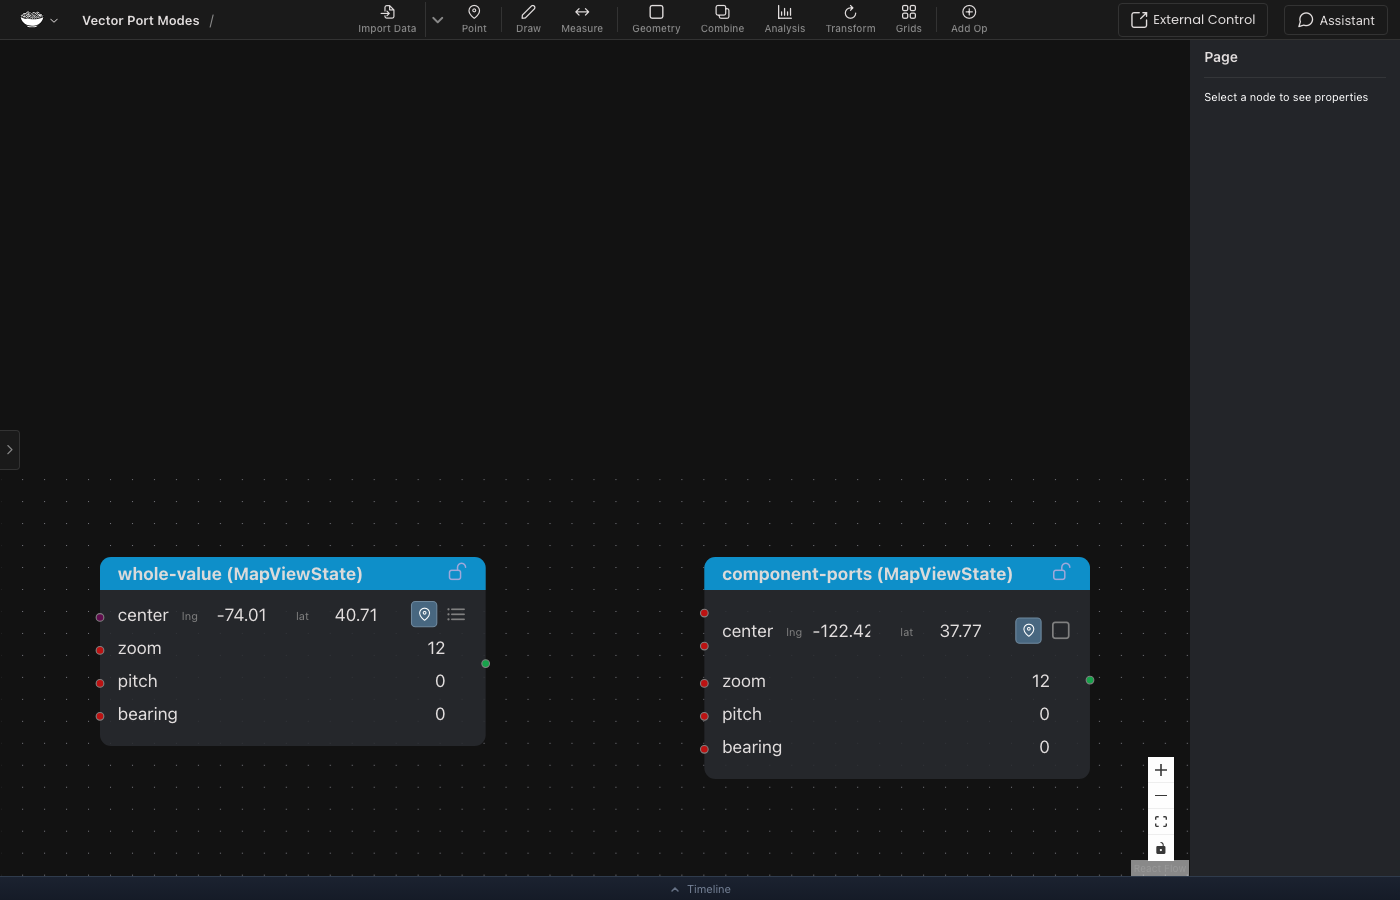
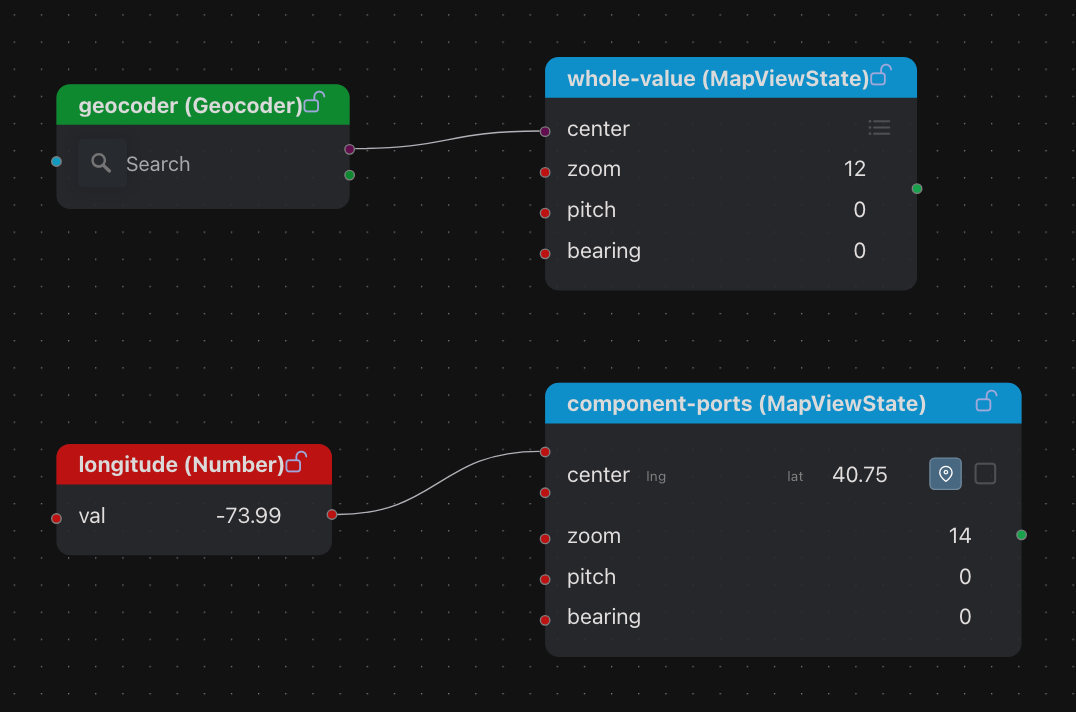
Crop vector port documentation image

diff --git a/docs/users/vector-input-ports.md b/docs/users/vector-input-ports.md
@@ -11,17 +11,15 @@ Use the layout button at the right of a vector field to switch between:
 - **Whole value** — one port for the complete point or vector. Use this to connect a Geocoder location, a GeoJSON Point, or another compatible vector directly.
 - **Components** — one port per numeric component, such as `lng` and `lat` or `x`, `y`, and `z`. Use this when coordinates come from different nodes.
 
-Both layouts represent the same input. They are never active at the same time, so there is no connection-priority rule to remember.
+Both layouts represent the same input. They are never active at the same time, so there is no connection-priority rule to remember. The example below connects a Geocoder Point in whole-value mode and a Number to `lng` in component mode.
 
-![Whole-value and component layouts for a MapViewState center](/img/map-view-state-port-modes.png)
+![A Geocoder Point connected to a whole-value MapViewState center and a Number connected to its longitude component](/img/map-view-state-port-modes.png)
 
 ## Connections and Editing
 
 Disconnect the whole input and all of its components before changing layouts. While a connection exists, the layout button is disabled and its tooltip explains what to disconnect.
 
 In component mode, connected components are driven by their edges while unconnected components remain editable. Point Lookup remains available in either layout.
-
-![A connected longitude with latitude still editable](/img/map-view-state-channel-connection.png)
 
 Keyframe diamonds appear in the Properties Panel sidebar, not on graph nodes. An unconnected component can still be edited and animated from the sidebar when another component is connected.
 
